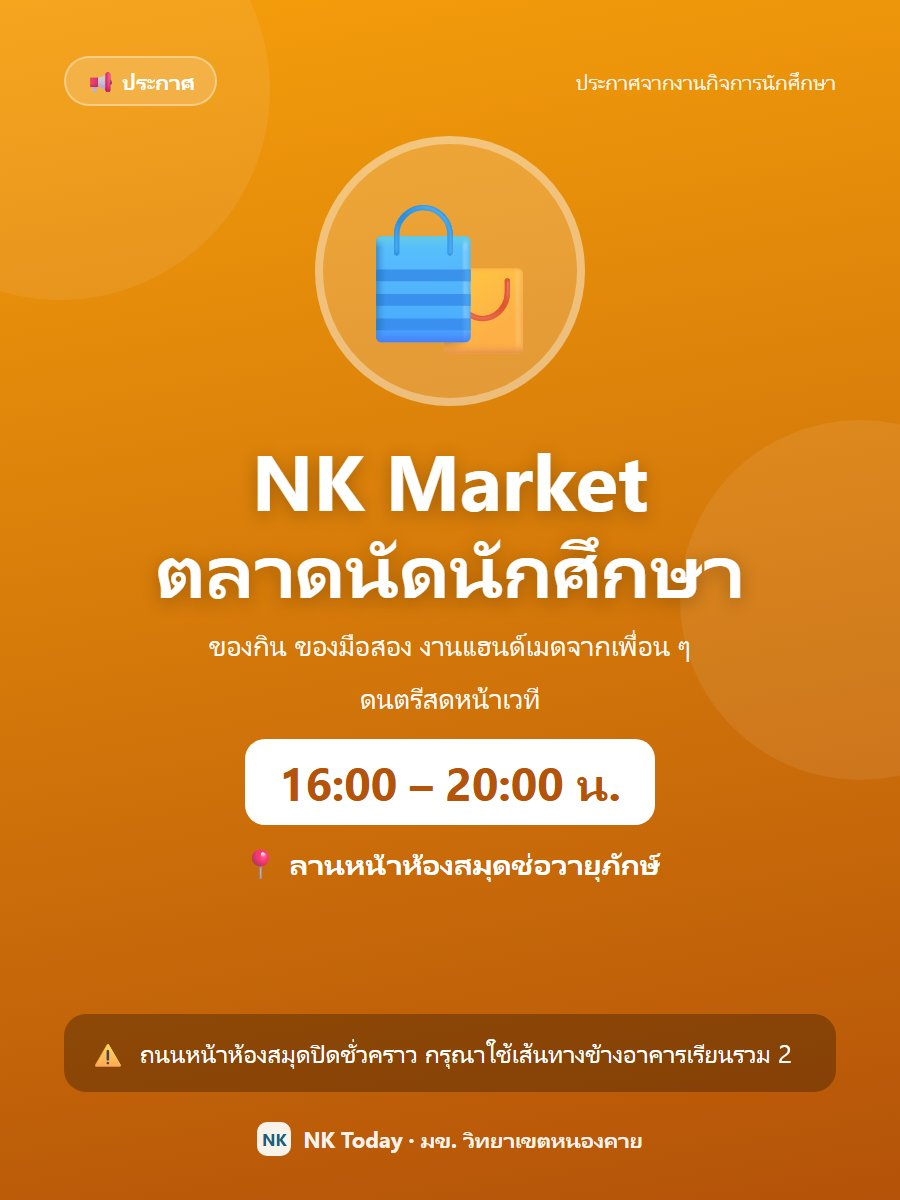
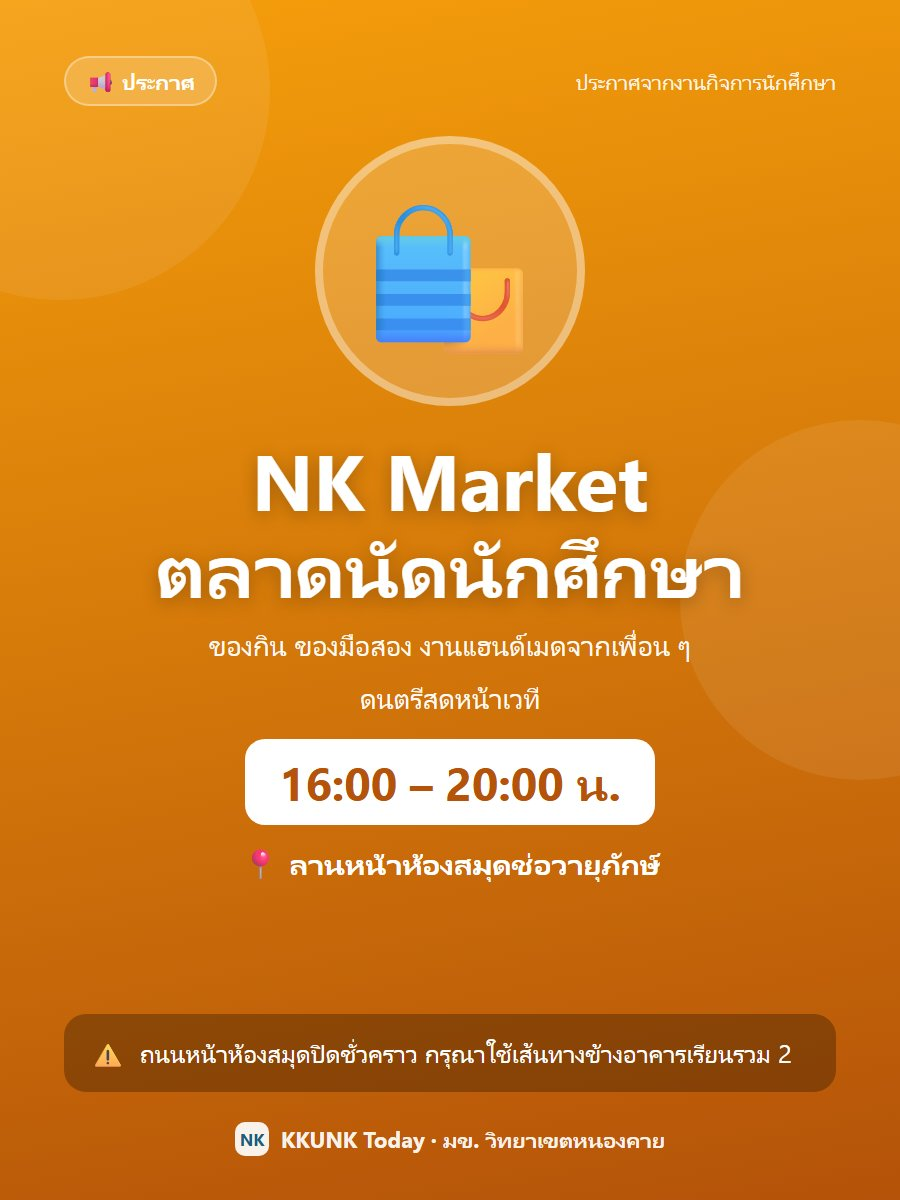
Rename to KKUNK Today and show web as a phone frame on wide screens
- Display name NK Today -> KKUNK Today (app, server notifications,
  posters, docs); slug/scheme/storage keys stay nktoday
- Web on screens >= 760px renders the app inside a centered phone
  frame (phone-frame.web.tsx); useAppWidth keeps activities 1 column
- Regenerate sample posters with the new name

Changed region(s): [[0.2489, 0.925, 0.7467, 0.9867]]

diff --git a/src/components/phone-frame.web.tsx b/src/components/phone-frame.web.tsx
@@ -1,0 +1,79 @@
+// เว็บบนจอกว้าง (คอม/โปรเจกเตอร์ตอนนำเสนอ): แสดงแอปในกรอบมือถือกลางจอ ให้หน้าตาเหมือนบนมือถือจริง
+// จอแคบ (เปิดเว็บบนมือถือ) แสดงเต็มจอเหมือนเดิม
+
+import type { ReactNode } from 'react';
+import { StyleSheet, Text, useWindowDimensions, View } from 'react-native';
+
+import { Colors, Spacing } from '@/constants/theme';
+
+/** กว้างกว่านี้ถึงจะแสดงกรอบ */
+const FRAME_FROM_WIDTH = 760;
+const FRAME_WIDTH = 420;
+const FRAME_MAX_HEIGHT = 900;
+const BEZEL = 10;
+/** กว้างพอจะมีชื่อแอปข้างกรอบ */
+const SIDE_TEXT_FROM_WIDTH = 1000;
+
+function useFramed(): boolean {
+  return useWindowDimensions().width >= FRAME_FROM_WIDTH;
+}
+
+export function PhoneFrame({ children }: { children: ReactNode }) {
+  const { width, height } = useWindowDimensions();
+  if (!useFramed()) return <>{children}</>;
+  const frameHeight = Math.min(FRAME_MAX_HEIGHT, height - 48);
+  return (
+    <View style={styles.backdrop}>
+      {width >= SIDE_TEXT_FROM_WIDTH ? (
+        <View style={styles.side} accessible={false}>
+          <Text style={styles.brand}>KKUNK Today</Text>
+          <Text style={styles.tagline}>
+            ทุกเรื่องใน มข. วิทยาเขตหนองคาย{'\n'}กิจกรรม · จิตอาสา · แจ้งซ่อม ·
+            ประกาศ
+          </Text>
+        </View>
+      ) : null}
+      <View style={[styles.frame, { height: frameHeight }]}>
+        <View style={styles.screen}>{children}</View>
+      </View>
+    </View>
+  );
+}
+
+/** ความกว้างที่แอปใช้ได้จริง (ในกรอบ = ความกว้างหน้าจอในกรอบ) */
+export function useAppWidth(): number {
+  const { width } = useWindowDimensions();
+  return width >= FRAME_FROM_WIDTH ? FRAME_WIDTH - BEZEL * 2 : width;
+}
+
+const styles = StyleSheet.create({
+  backdrop: {
+    flex: 1,
+    flexDirection: 'row',
+    alignItems: 'center',
+    justifyContent: 'center',
+    gap: 64,
+    backgroundColor: Colors.primaryDark,
+  },
+  side: { maxWidth: 320, gap: Spacing.md },
+  brand: {
+    fontSize: 44,
+    fontWeight: '800',
+    color: Colors.onPrimary,
+    letterSpacing: -0.5,
+  },
+  tagline: { fontSize: 18, lineHeight: 28, color: Colors.onPrimaryMuted },
+  frame: {
+    width: FRAME_WIDTH,
+    borderRadius: 44,
+    padding: BEZEL,
+    backgroundColor: '#111418',
+    boxShadow: '0 30px 80px rgba(0, 0, 0, 0.45)',
+  },
+  screen: {
+    flex: 1,
+    borderRadius: 34,
+    overflow: 'hidden',
+    backgroundColor: Colors.background,
+  },
+});

diff --git a/src/app/_layout.tsx b/src/app/_layout.tsx
@@ -4,6 +4,7 @@ import { StatusBar } from 'expo-status-bar';
 import { useEffect } from 'react';
 
 import { InboxToast } from '@/components/inbox-toast';
+import { PhoneFrame } from '@/components/phone-frame';
 import { Colors } from '@/constants/theme';
 import { useNotificationRouting } from '@/hooks/use-notification-routing';
 import { ActivitiesProvider } from '@/state/activities-context';
@@ -27,8 +28,11 @@ export default function RootLayout() {
             <MyRegistrationsProvider>
               <TicketsProvider>
                 <StatusBar style="dark" />
-                <RootNavigator />
-                <InboxToast />
+                {/* เว็บจอกว้าง: แสดงเป็นกรอบมือถือ · มือถือ: ไม่มีผล */}
+                <PhoneFrame>
+                  <RootNavigator />
+                  <InboxToast />
+                </PhoneFrame>
               </TicketsProvider>
             </MyRegistrationsProvider>
           </FavoritesProvider>

diff --git a/src/app/(tabs)/activities.tsx b/src/app/(tabs)/activities.tsx
@@ -7,11 +7,11 @@ import {
   StyleSheet,
   Text,
   TextInput,
-  useWindowDimensions,
   View,
 } from 'react-native';
 
 import { ActivityCard } from '@/components/activity-card';
+import { useAppWidth } from '@/components/phone-frame';
 import { Banner, Chip, StateView } from '@/components/ui';
 import { Colors, MaxContentWidth, MinTouch, Radius, Spacing } from '@/constants/theme';
 import { useDisplayStatus } from '@/hooks/use-display-status';
@@ -40,7 +40,7 @@ export default function ActivitiesScreen() {
   const visible = filterActivities(sortForBrowsing(activities), query, category);
 
   // จอกว้าง (แท็บเล็ต/เว็บ) แสดง 2 คอลัมน์ คำนวณจากพื้นที่จริง ไม่ยึดขนาดเครื่องเดียว
-  const { width } = useWindowDimensions();
+  const width = useAppWidth();
   const columns = Math.min(width, MaxContentWidth) >= 720 ? 2 : 1;
 
   const clearFilters = () => {

diff --git a/src/app/about.tsx b/src/app/about.tsx
@@ -9,7 +9,7 @@ export default function AboutScreen() {
   return (
     <Screen>
       <Text style={styles.intro}>
-        NK Today รวมกิจกรรม จิตอาสา แจ้งซ่อม และประกาศของ มข. วิทยาเขตหนองคาย ไว้ในแอปเดียว
+        KKUNK Today รวมกิจกรรม จิตอาสา แจ้งซ่อม และประกาศของ มข. วิทยาเขตหนองคาย ไว้ในแอปเดียว
         ด้านล่างคือเนื้อหาแต่ละสัปดาห์ที่นำมาใช้
       </Text>
       {WEEKS.map((w) => (

diff --git a/src/app/login.tsx b/src/app/login.tsx
@@ -50,7 +50,7 @@ export default function LoginScreen() {
     <KeyboardAvoidingView style={{ flex: 1 }} behavior={Platform.OS === 'ios' ? 'padding' : undefined}>
       <Screen>
         <Card>
-          <SectionTitle>เข้าสู่ระบบ NK Today</SectionTitle>
+          <SectionTitle>เข้าสู่ระบบ KKUNK Today</SectionTitle>
           <Text style={styles.muted}>มหาวิทยาลัยขอนแก่น วิทยาเขตหนองคาย</Text>
           <Text style={styles.muted}>นักศึกษาใช้รหัสนักศึกษา ผู้จัดกิจกรรมใช้รหัสบุคลากร</Text>
           <TextField

diff --git a/src/components/phone-frame.tsx b/src/components/phone-frame.tsx
@@ -1,0 +1,13 @@
+// มือถือ: แอปเต็มจออยู่แล้ว ไม่ต้องมีกรอบ (เว็บใช้ phone-frame.web.tsx)
+
+import type { ReactNode } from 'react';
+import { useWindowDimensions } from 'react-native';
+
+export function PhoneFrame({ children }: { children: ReactNode }) {
+  return <>{children}</>;
+}
+
+/** ความกว้างที่แอปใช้ได้จริง (บนเว็บในกรอบมือถือ = ความกว้างกรอบ) */
+export function useAppWidth(): number {
+  return useWindowDimensions().width;
+}

diff --git a/__tests__/tickets.test.tsx b/__tests__/tickets.test.tsx
@@ -1,4 +1,4 @@
-// ทดสอบกฎของแจ้งซ่อม / กล่องแจ้งเตือน (ส่วนที่เพิ่มใน NK Today)
+// ทดสอบกฎของแจ้งซ่อม / กล่องแจ้งเตือน (ส่วนที่เพิ่มใน KKUNK Today)
 import { fireEvent, render, screen } from '@testing-library/react-native';
 
 import { appointmentFrom } from '@/components/appointment-picker';

diff --git a/src/types/models.ts b/src/types/models.ts
@@ -1,4 +1,4 @@
-// โครงสร้างข้อมูลหลักของ NK Today
+// โครงสร้างข้อมูลหลักของ KKUNK Today
 // กำหนดด้วย TypeScript ตั้งแต่แรก เพื่อให้ข้อมูลผิดรูปแบบถูกจับได้ตั้งแต่ตอนเขียนโค้ด
 
 export type Category = 'academic' | 'volunteer' | 'sport' | 'culture';

diff --git a/src/services/reminders.ts b/src/services/reminders.ts
@@ -53,7 +53,7 @@ export function loadReminderMap(): Promise<ReminderMap> {
 async function ensureChannel(): Promise<void> {
   if (!Notifications || Platform.OS !== 'android') return;
   await Notifications.setNotificationChannelAsync(CHANNEL_ID, {
-    name: 'แจ้งเตือน NK Today',
+    name: 'แจ้งเตือน KKUNK Today',
     importance: Notifications.AndroidImportance.HIGH,
   });
 }

diff --git a/src/app/(tabs)/_layout.tsx b/src/app/(tabs)/_layout.tsx
@@ -33,7 +33,7 @@ export default function TabsLayout() {
         name="index"
         options={{
           title: 'วันนี้',
-          headerTitle: 'NK Today · วันนี้ในมอ',
+          headerTitle: 'KKUNK Today · วันนี้ในมอ',
           tabBarIcon: ({ color, size }) => <Ionicons name="today" size={size} color={color} />,
         }}
       />

diff --git a/src/constants/theme.ts b/src/constants/theme.ts
@@ -1,5 +1,5 @@
 export const Colors = {
-  // สีหลักของ NK Today: น้ำเงินแม่น้ำโขง ขาวบน primary 6.9:1
+  // สีหลักของ KKUNK Today: น้ำเงินแม่น้ำโขง ขาวบน primary 6.9:1
   primary: '#0F5F8C',
   primaryDark: '#0A4668',
   primarySoft: '#E3F0F7',

diff --git a/src/services/campus-api.ts b/src/services/campus-api.ts
@@ -1,4 +1,4 @@
-// API ส่วนกิจกรรมและบัญชีผู้ใช้ของ NK Today (ตรงกับ server/index.mjs)
+// API ส่วนกิจกรรมและบัญชีผู้ใช้ของ KKUNK Today (ตรงกับ server/index.mjs)
 
 import type {
   AccountRole,
